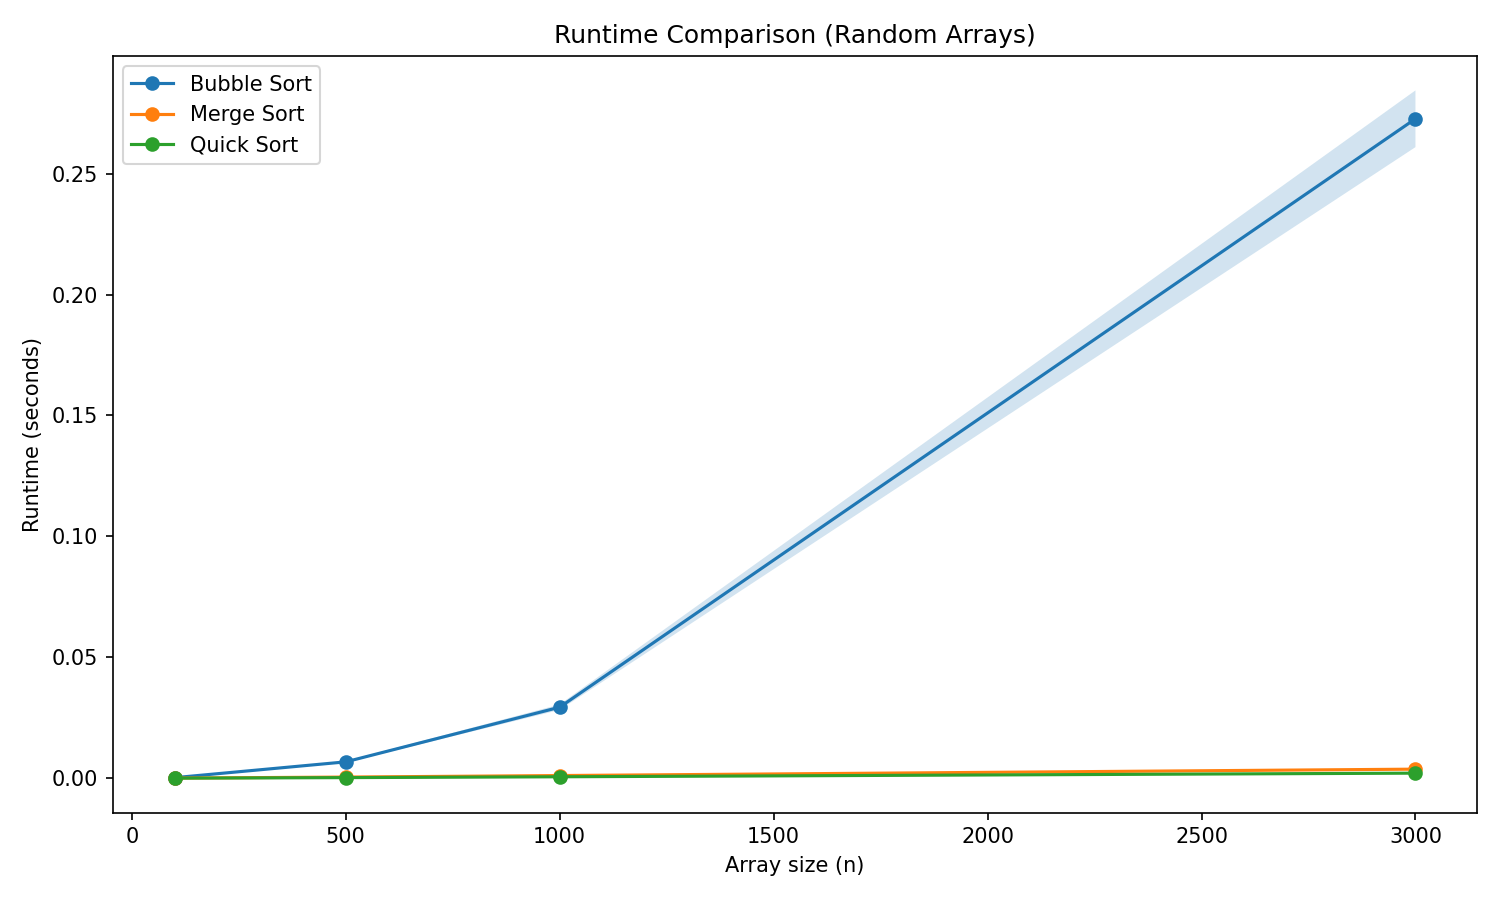
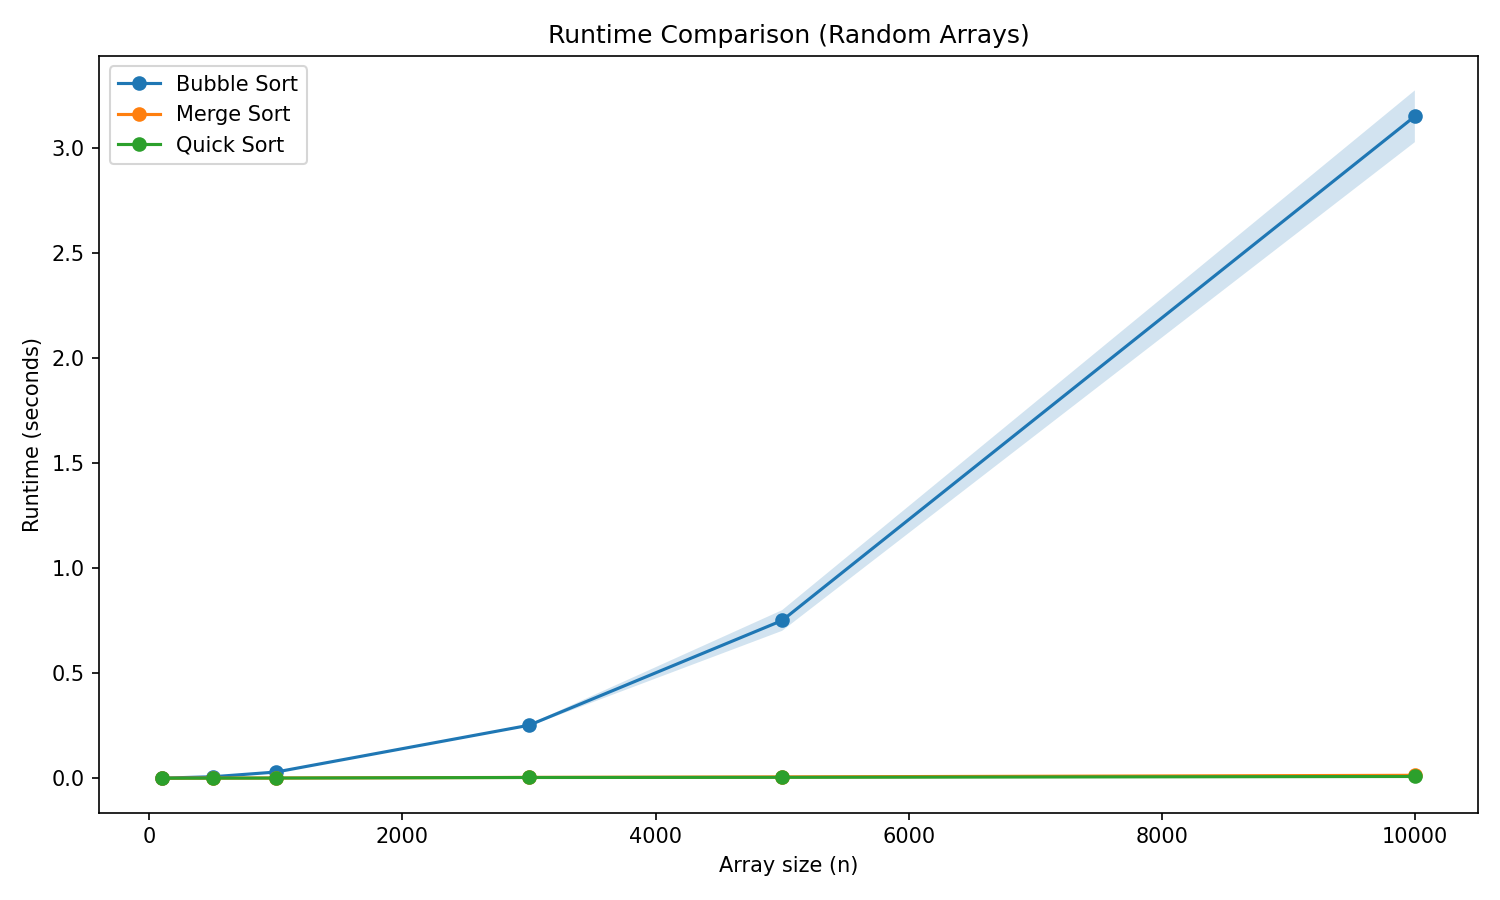
Improve experiments: larger sizes, bubble sort early termination, updated analysis

diff --git a/run_experiments.py b/run_experiments.py
@@ -16,9 +16,13 @@ import matplotlib.pyplot as plt
 def bubble_sort(arr):
     n = len(arr)
     for i in range(n - 1):
+        swapped = False
         for j in range(n - 1 - i):
             if arr[j] > arr[j + 1]:
                 arr[j], arr[j + 1] = arr[j + 1], arr[j]
+                swapped = True
+        if not swapped:
+            break
 
 
 def selection_sort(arr):

diff --git a/README.md b/README.md
@@ -21,8 +21,8 @@
 # Install dependencies (only needed once)
 pip install matplotlib numpy
 
-# Example: compare algorithms 1, 2, 5 on sizes 100–3000, noise type 1 (5%), 20 reps
-python run_experiments.py -a 1 4 5 -s 100 500 1000 3000 -e 1 -r 10
+# Example: compare algorithms 1, 4, 5 on sizes 100–10000, noise type 1 (5%), 10 reps
+python run_experiments.py -a 1 4 5 -s 100 500 1000 3000 5000 10000 -e 1 -r 10
 ```
 
 ### Command-line arguments
@@ -40,10 +40,10 @@ python run_experiments.py -a 1 4 5 -s 100 500 1000 3000 -e 1 -r 10
 
 ![result1](result1.png)
 
-Bubble Sort is clearly the slowest algorithm. Its runtime grows quadratically (O(n²)), reaching ~0.27 seconds at n=3000, while Merge Sort and Quick Sort remain nearly flat and close to zero throughout. This matches their theoretical O(n log n) complexity, which grows much more slowly than O(n²). The shaded band around Bubble Sort widens at larger sizes, reflecting greater run-to-run variance as the algorithm takes longer.
+Bubble Sort is clearly the slowest algorithm. Its runtime grows quadratically (O(n²)), reaching ~3.1 seconds at n=10,000, while Merge Sort and Quick Sort remain nearly flat and close to zero throughout. This matches their theoretical O(n log n) complexity, which grows much more slowly than O(n²). The shaded band around Bubble Sort widens at larger sizes, reflecting greater run-to-run variance as the algorithm takes longer.
 
 ### result2.png – Nearly Sorted Arrays (5% noise)
 
 ![result2](result2.png)
 
-On nearly sorted input, Bubble Sort improves noticeably compared to result1 (~0.18s vs ~0.27s at n=3000), because fewer swaps are needed when most elements are already in order. Merge Sort and Quick Sort remain fast and are essentially unchanged — their O(n log n) performance is not sensitive to the initial order of elements at this noise level. The overall ranking of the three algorithms stays the same, confirming that Merge Sort and Quick Sort are consistently superior to Bubble Sort regardless of input order.
+On nearly sorted input, Bubble Sort improves significantly compared to result1 (~1.75s vs ~3.1s at n=10,000 — nearly 44% faster). This is due to the early-termination optimization: when a full pass over the array produces no swaps, the algorithm stops immediately. On a nearly sorted array (only 5% of elements displaced), most passes after the first few produce no swaps, so the algorithm exits early rather than completing all O(n²) passes. Merge Sort and Quick Sort are essentially unchanged — their O(n log n) performance is not sensitive to the initial order of elements. The overall ranking stays the same, confirming that Merge Sort and Quick Sort are consistently superior to Bubble Sort regardless of input order.
